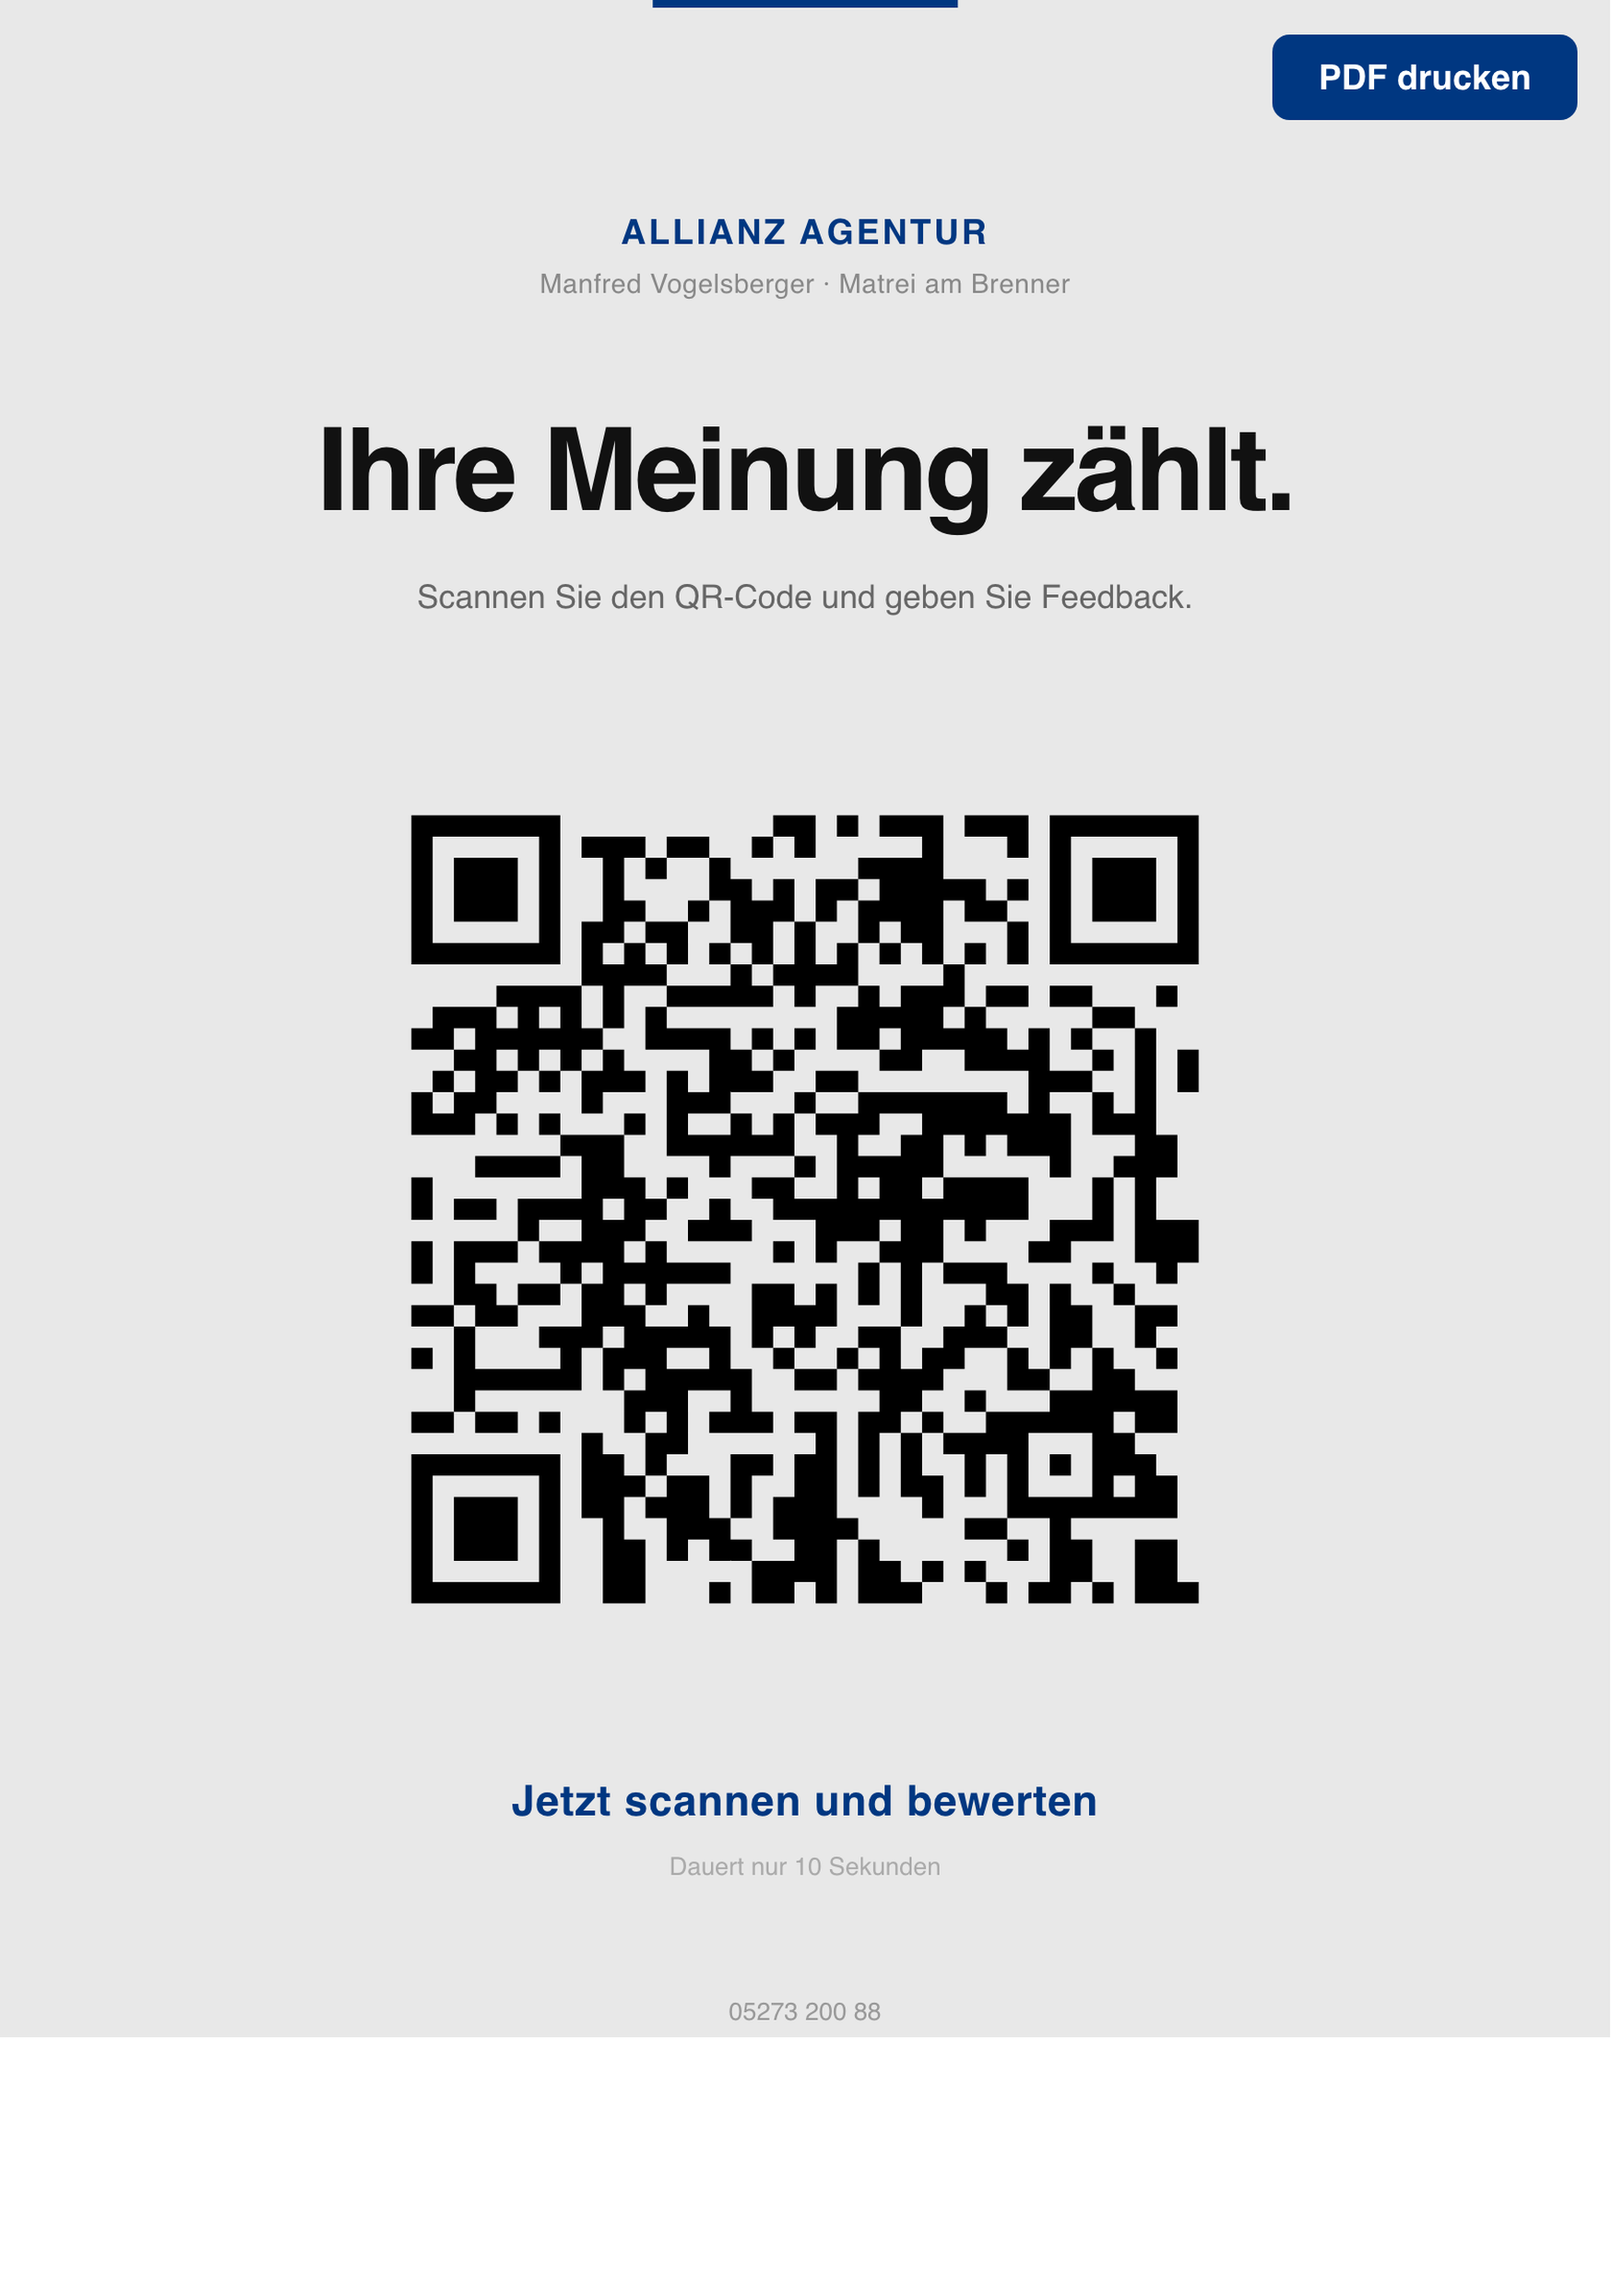
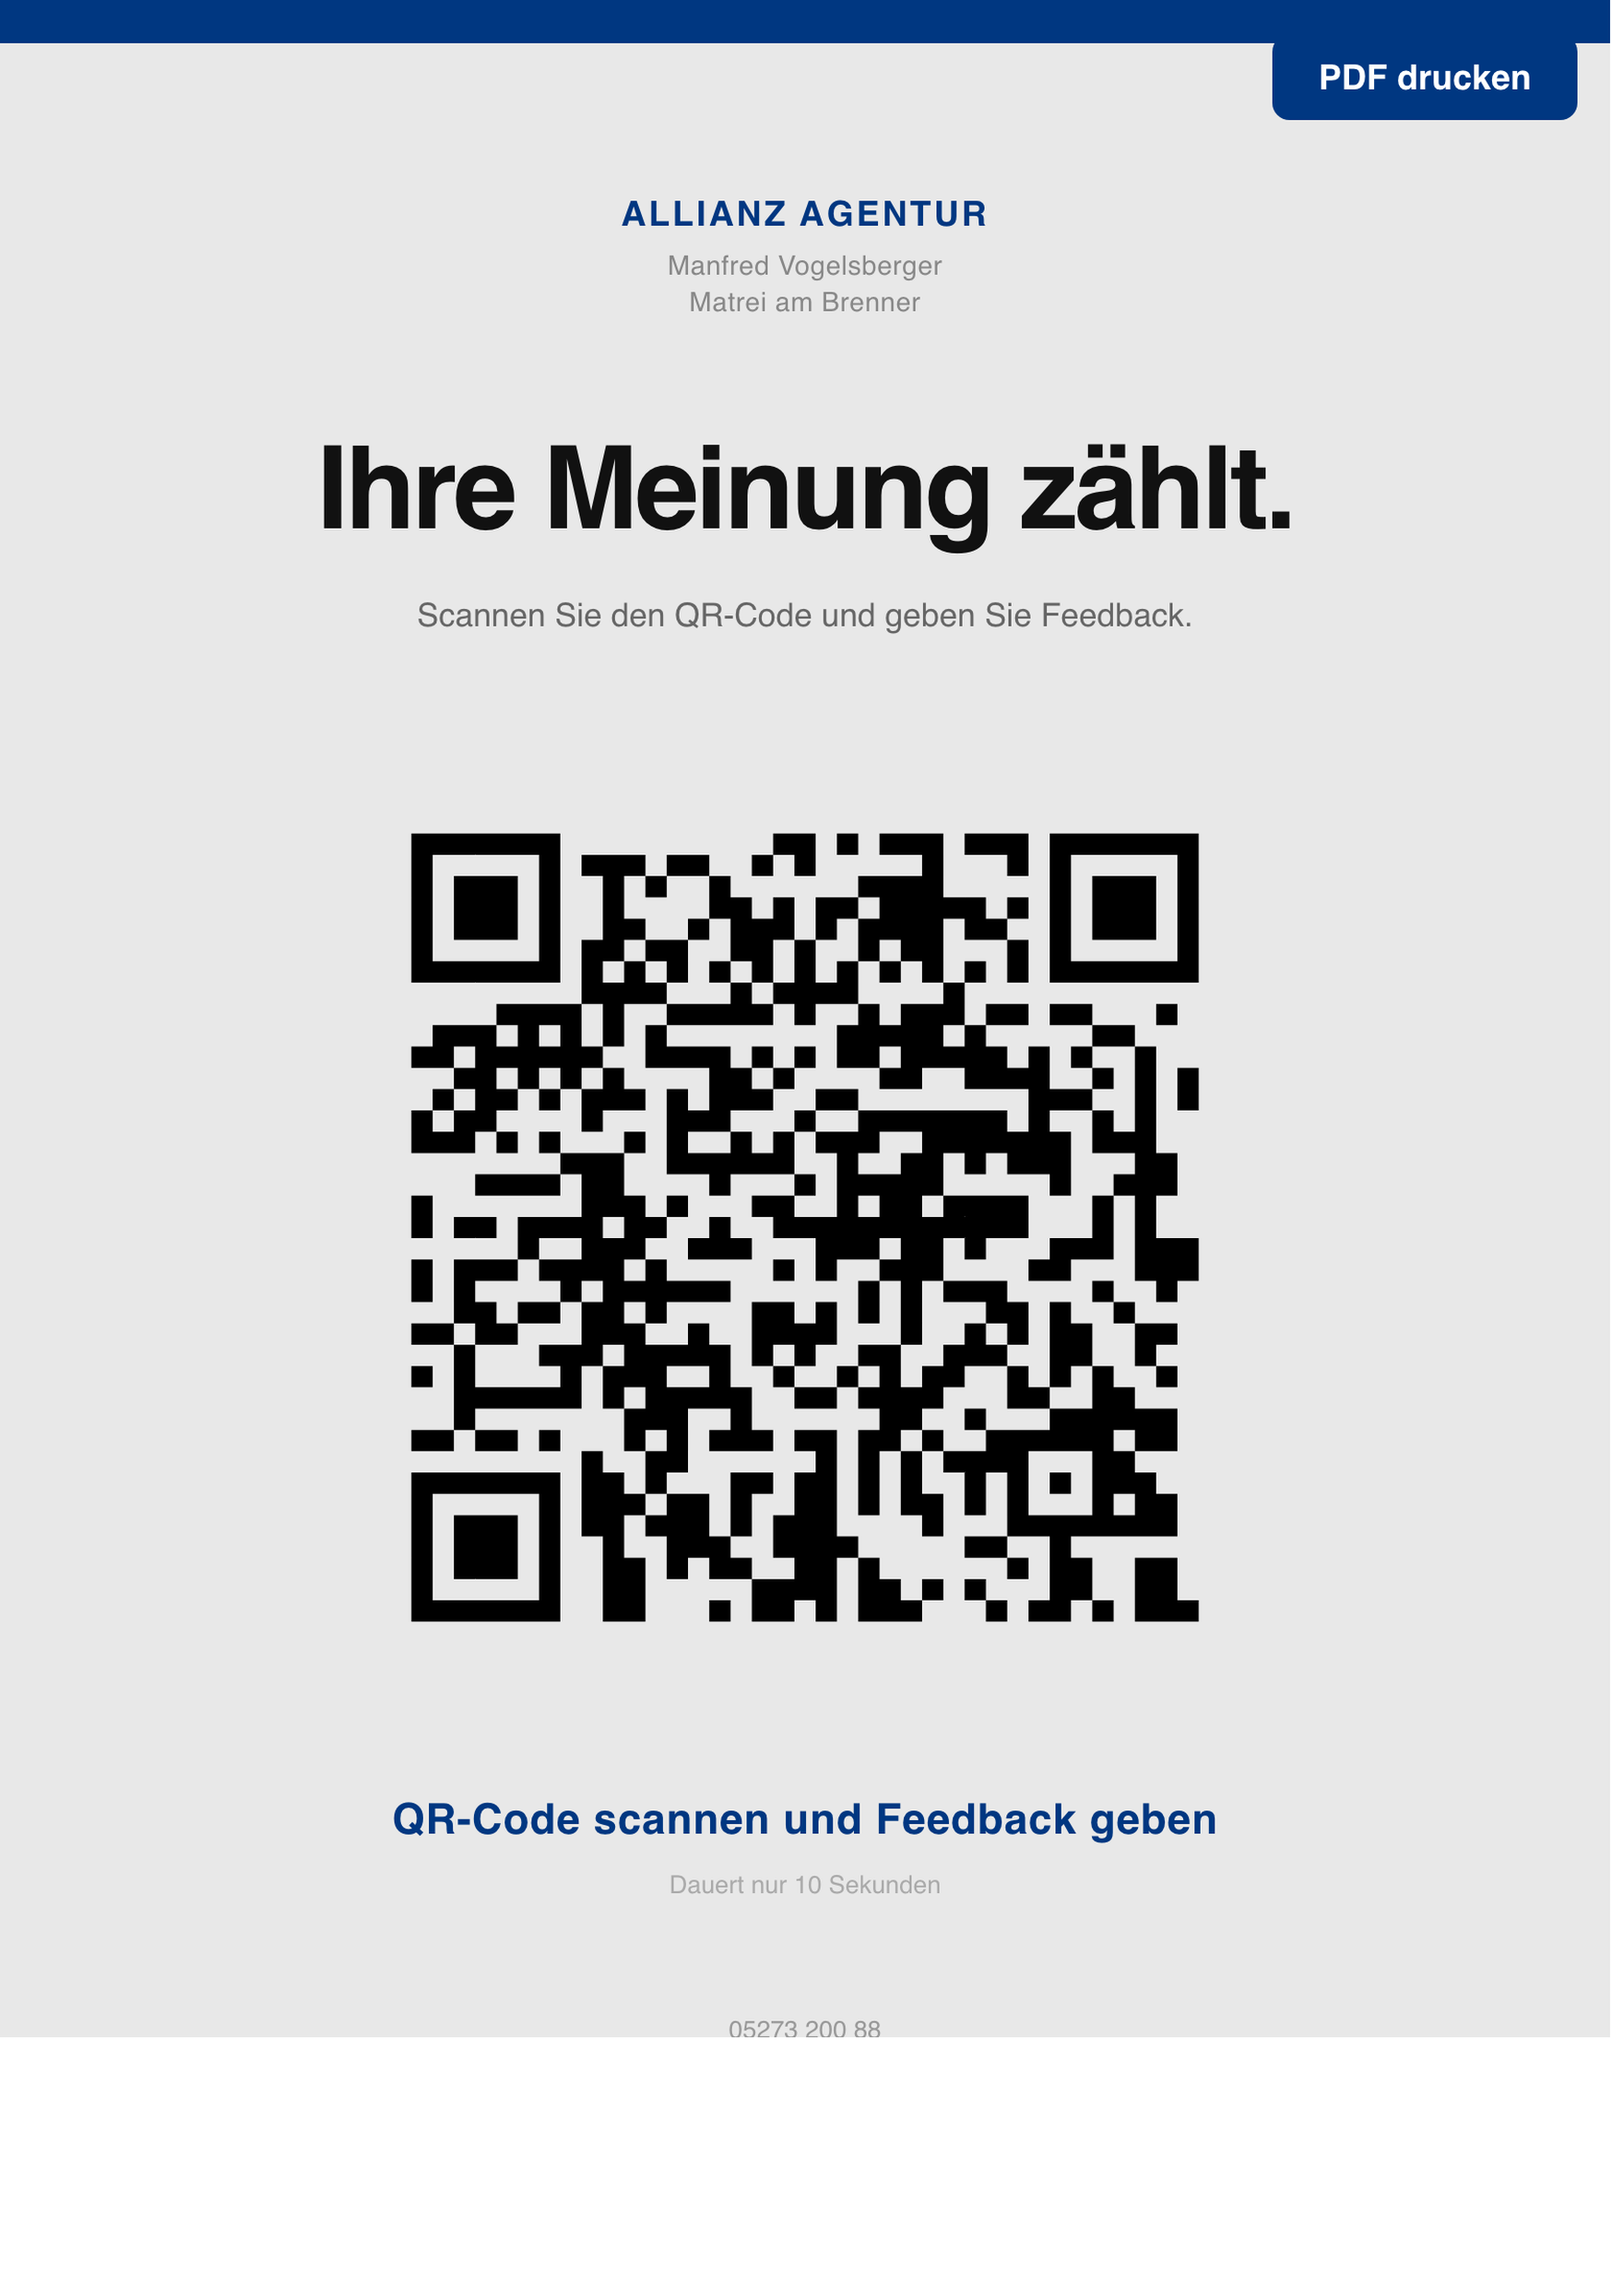
Final print polish
Made-with: Cursor

diff --git a/flyer-a6-final.html b/flyer-a6-final.html
@@ -36,14 +36,12 @@
       position: relative;
     }
 
-    .page::after {
-      content: '';
+    .topbar {
       position: absolute;
       top: 0;
-      left: 50%;
-      transform: translateX(-50%);
-      width: 20mm;
-      height: 0.6mm;
+      left: 0;
+      right: 0;
+      height: 4mm;
       background: #003781;
     }
 
@@ -54,19 +52,28 @@
 
     .header__agency {
       font-size: 7.5pt;
-      font-weight: 700;
+      font-weight: 600;
       color: #003781;
       letter-spacing: 0.08em;
       text-transform: uppercase;
       display: block;
     }
 
-    .header__agent {
+    .header__name {
       font-size: 6pt;
       font-weight: 400;
       color: #888;
       display: block;
       margin-top: 1mm;
+      letter-spacing: 0.02em;
+    }
+
+    .header__location {
+      font-size: 6pt;
+      font-weight: 400;
+      color: #888;
+      display: block;
+      margin-top: 0.3mm;
       letter-spacing: 0.02em;
     }
 
@@ -103,7 +110,7 @@
 
     .cta {
       font-size: 8.5pt;
-      font-weight: 700;
+      font-weight: 600;
       color: #003781;
       text-align: center;
       letter-spacing: 0.02em;
@@ -163,14 +170,16 @@
 <body>
   <button class="print-btn" onclick="window.print()">PDF drucken</button>
   <div class="page">
+    <div class="topbar"></div>
     <div class="header">
-      <span class="header__agency">Allianz Agentur</span>
-      <span class="header__agent">Manfred Vogelsberger · Matrei am Brenner</span>
+      <span class="header__agency">ALLIANZ AGENTUR</span>
+      <span class="header__name">Manfred Vogelsberger</span>
+      <span class="header__location">Matrei am Brenner</span>
     </div>
     <h1 class="headline">Ihre Meinung zählt.</h1>
     <p class="subline">Scannen Sie den QR-Code und geben Sie Feedback.</p>
     <div class="qr"><img src="qr/qr.svg" alt="QR-Code"></div>
-    <span class="cta">Jetzt scannen und bewerten</span>
+    <span class="cta">QR-Code scannen und Feedback geben</span>
     <span class="micro">Dauert nur 10 Sekunden</span>
     <div class="footer">
       <span class="footer__line">05273 200 88</span>

diff --git a/flyer-a5-final.html b/flyer-a5-final.html
@@ -36,14 +36,12 @@
       position: relative;
     }
 
-    .page::after {
-      content: '';
+    .topbar {
       position: absolute;
       top: 0;
-      left: 50%;
-      transform: translateX(-50%);
-      width: 28mm;
-      height: 0.7mm;
+      left: 0;
+      right: 0;
+      height: 4mm;
       background: #003781;
     }
 
@@ -54,19 +52,28 @@
 
     .header__agency {
       font-size: 9pt;
-      font-weight: 700;
+      font-weight: 600;
       color: #003781;
       letter-spacing: 0.08em;
       text-transform: uppercase;
       display: block;
     }
 
-    .header__agent {
+    .header__name {
       font-size: 7pt;
       font-weight: 400;
       color: #888;
       display: block;
       margin-top: 1.5mm;
+      letter-spacing: 0.02em;
+    }
+
+    .header__location {
+      font-size: 7pt;
+      font-weight: 400;
+      color: #888;
+      display: block;
+      margin-top: 0.5mm;
       letter-spacing: 0.02em;
     }
 
@@ -103,7 +110,7 @@
 
     .cta {
       font-size: 11pt;
-      font-weight: 700;
+      font-weight: 600;
       color: #003781;
       text-align: center;
       letter-spacing: 0.02em;
@@ -163,14 +170,16 @@
 <body>
   <button class="print-btn" onclick="window.print()">PDF drucken</button>
   <div class="page">
+    <div class="topbar"></div>
     <div class="header">
-      <span class="header__agency">Allianz Agentur</span>
-      <span class="header__agent">Manfred Vogelsberger · Matrei am Brenner</span>
+      <span class="header__agency">ALLIANZ AGENTUR</span>
+      <span class="header__name">Manfred Vogelsberger</span>
+      <span class="header__location">Matrei am Brenner</span>
     </div>
     <h1 class="headline">Ihre Meinung zählt.</h1>
     <p class="subline">Scannen Sie den QR-Code und geben Sie Feedback.</p>
     <div class="qr"><img src="qr/qr.svg" alt="QR-Code"></div>
-    <span class="cta">Jetzt scannen und bewerten</span>
+    <span class="cta">QR-Code scannen und Feedback geben</span>
     <span class="micro">Dauert nur 10 Sekunden</span>
     <div class="footer">
       <span class="footer__line">05273 200 88</span>
